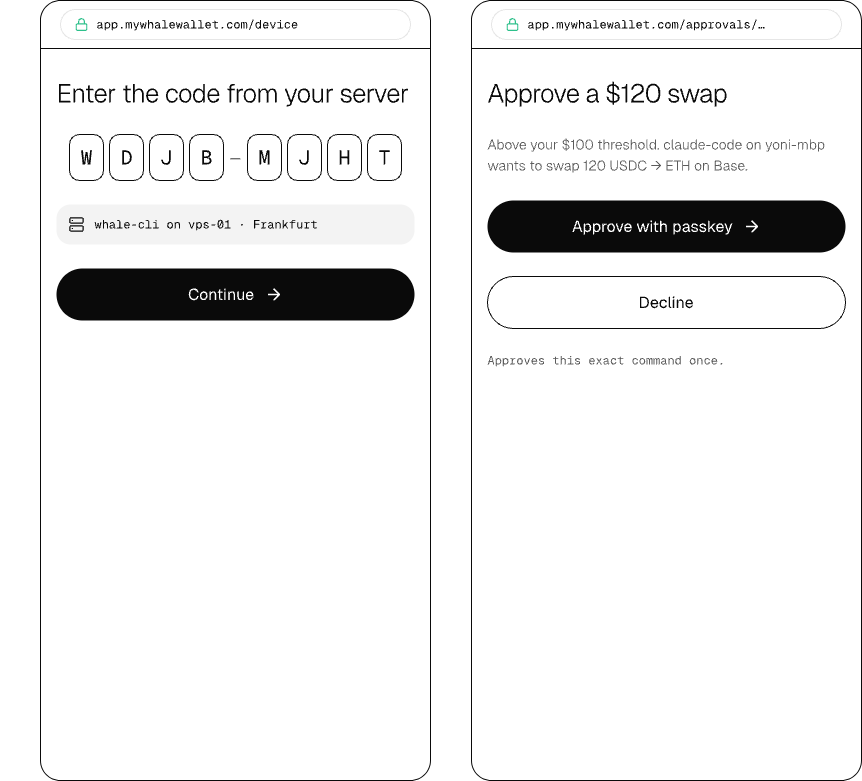
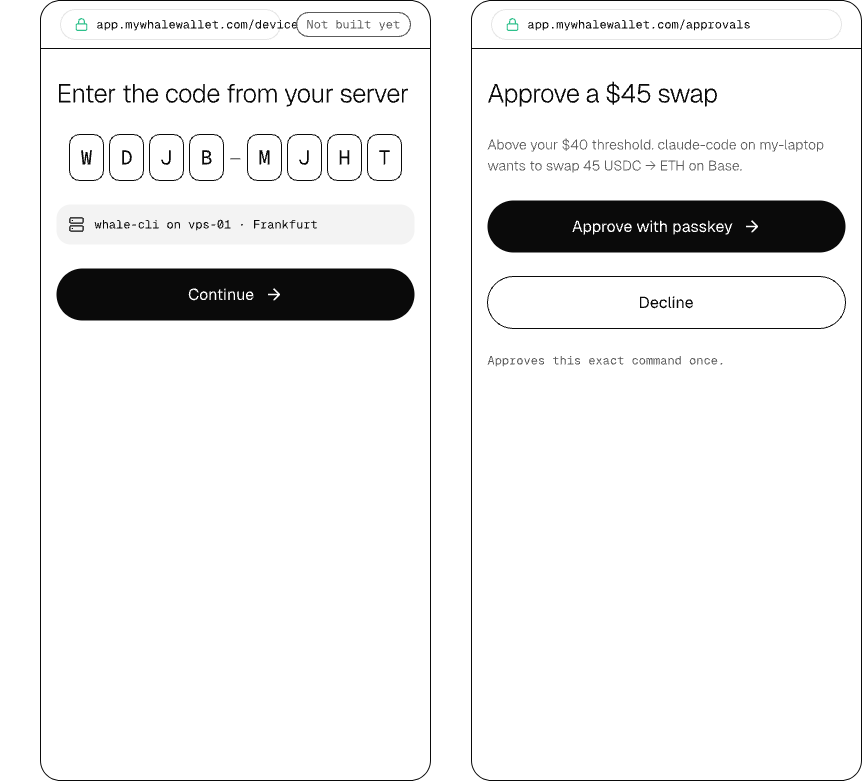
docs(design): fix the auth screen review findings
Shows a $45 swap above a $40 threshold, inside the $50 per-trade cap,
so the approval screens match the gateway's order of checks. Drops the
hosted tool count, removes the owner's machine name, uses the dashboard
URLs that exist, and tags every flow that is not on main as Not built
yet.

Changed region(s): [[0.6636, 0.0922, 0.9652, 0.2151], [0.3318, 0.0, 0.4826, 0.0615]]

diff --git a/design/README.md b/design/README.md
@@ -52,7 +52,7 @@ Each claim was checked against `origin/main` on 2026-11-18.
 | Topic | Site copy | Why |
 | --- | --- | --- |
 | Verbs | "Quote, swap and transfer (dry-run during beta), plus bridge-quote ranking" | `bridge` ranks quotes the caller supplies and never broadcasts (`src/commands.ts:110`). The CLI refuses it. |
-| Swap and transfer | Labelled dry-run | The local MCP forces dry-run (`src/mcp-server.ts:47`). Hosted sends stay dry-run until hosted live opens. |
+| Swap and transfer | Labelled dry-run | The local MCP forces dry-run (`src/mcp-server.ts:46`). Hosted sends stay dry-run until hosted live opens. |
 | Networks | "15 networks", with a badge on each limited chain | Ethereum: opt-in. Monad: opt-in, no router yet. zkSync: quotes only. Base, Optimism, Blast and Scroll: quotes only, because live mode refuses chains with an unbounded L1 data fee (`L1_DATA_FEE_CHAIN_IDS` at `src/chains.ts:287`, enforced at `src/config/guard.ts:94`). HyperCore: orders only. |
 | Approval | "Trades on its own inside per-trade and daily USD caps" | On `main` since #88, the owner approval threshold defaults to none, and hosted swaps and transfers are both priced and counted against the per-trade and daily USD caps. An owner can still set a threshold, and sends above it wait for a passkey approval. The unused approval-mode module was removed in #95. |
 | Hosted gateway | "Sends are dry-run during beta" | Hosted live is not open. |
